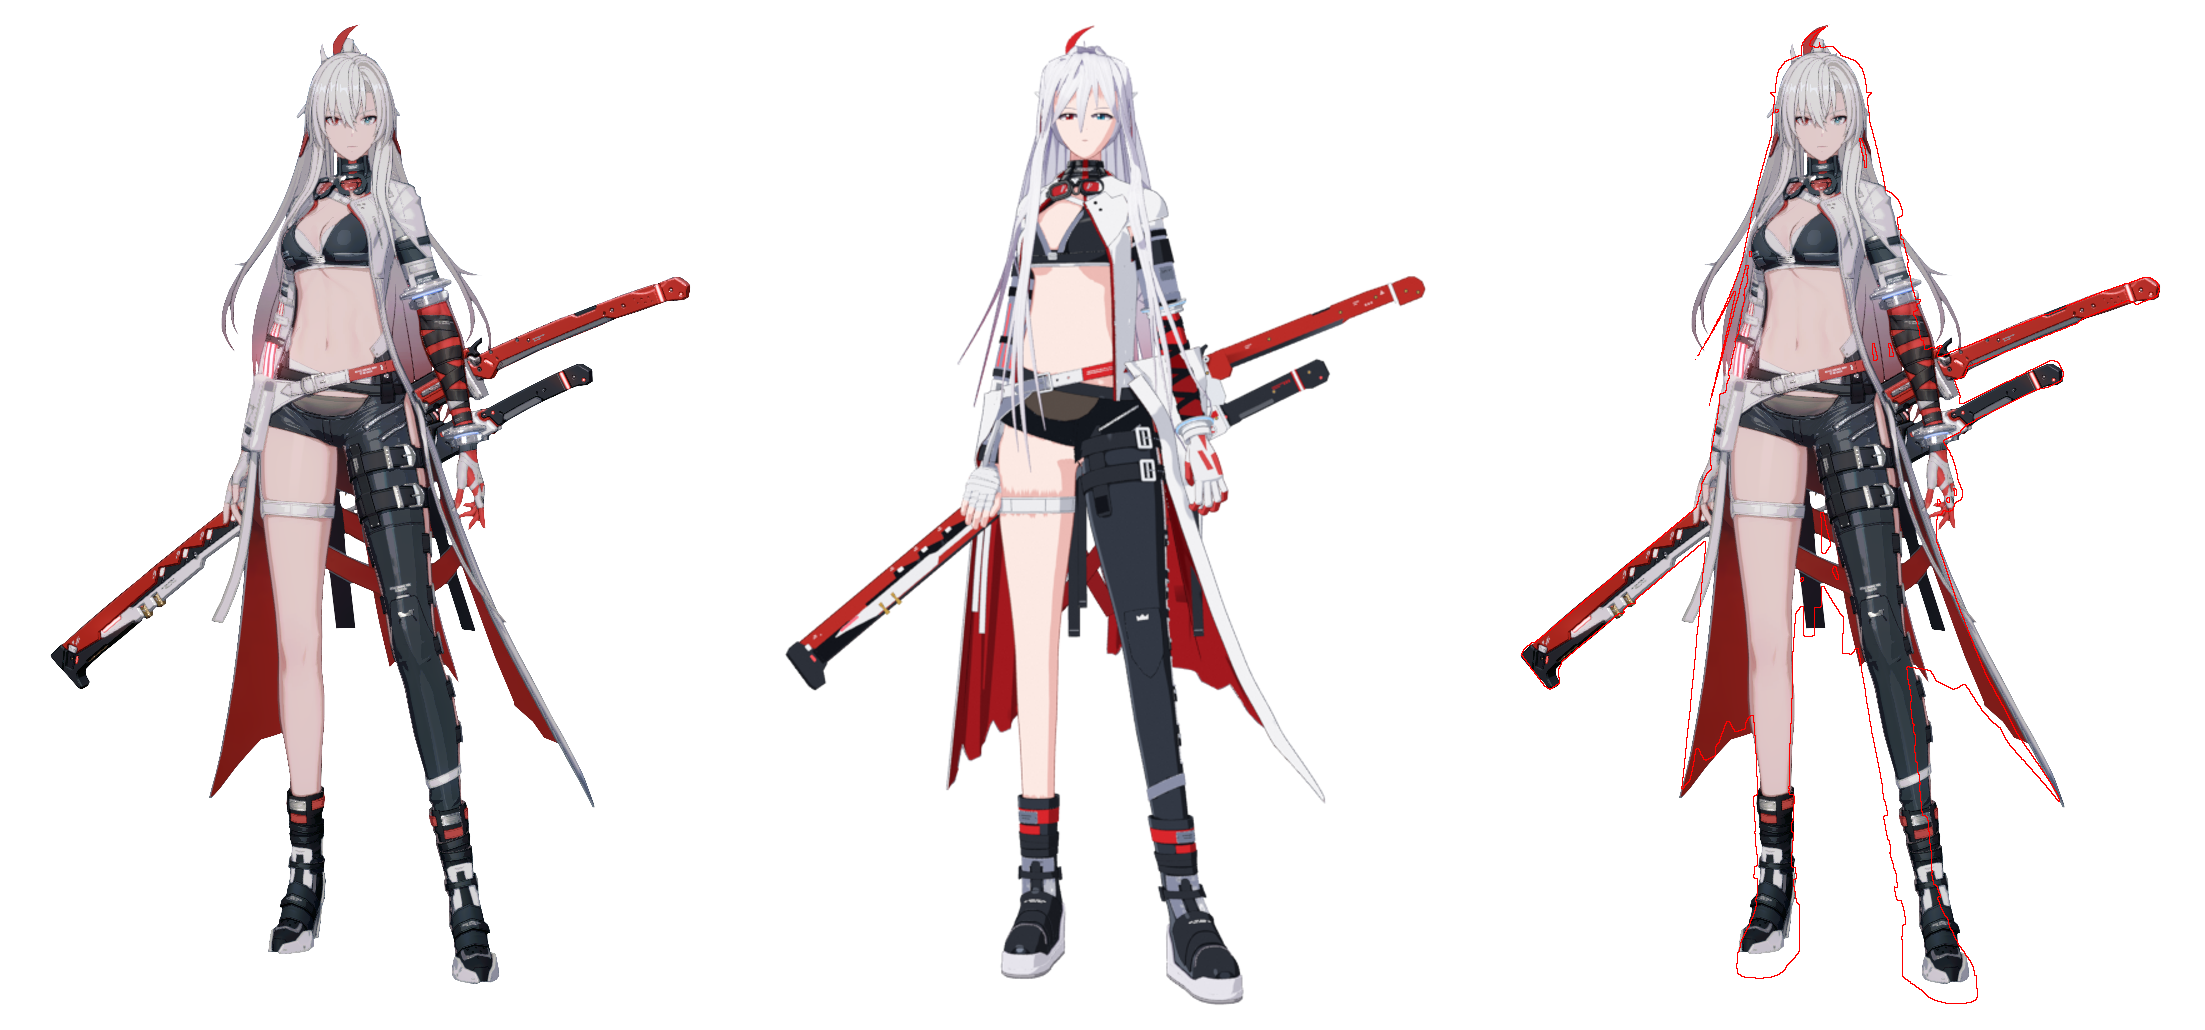
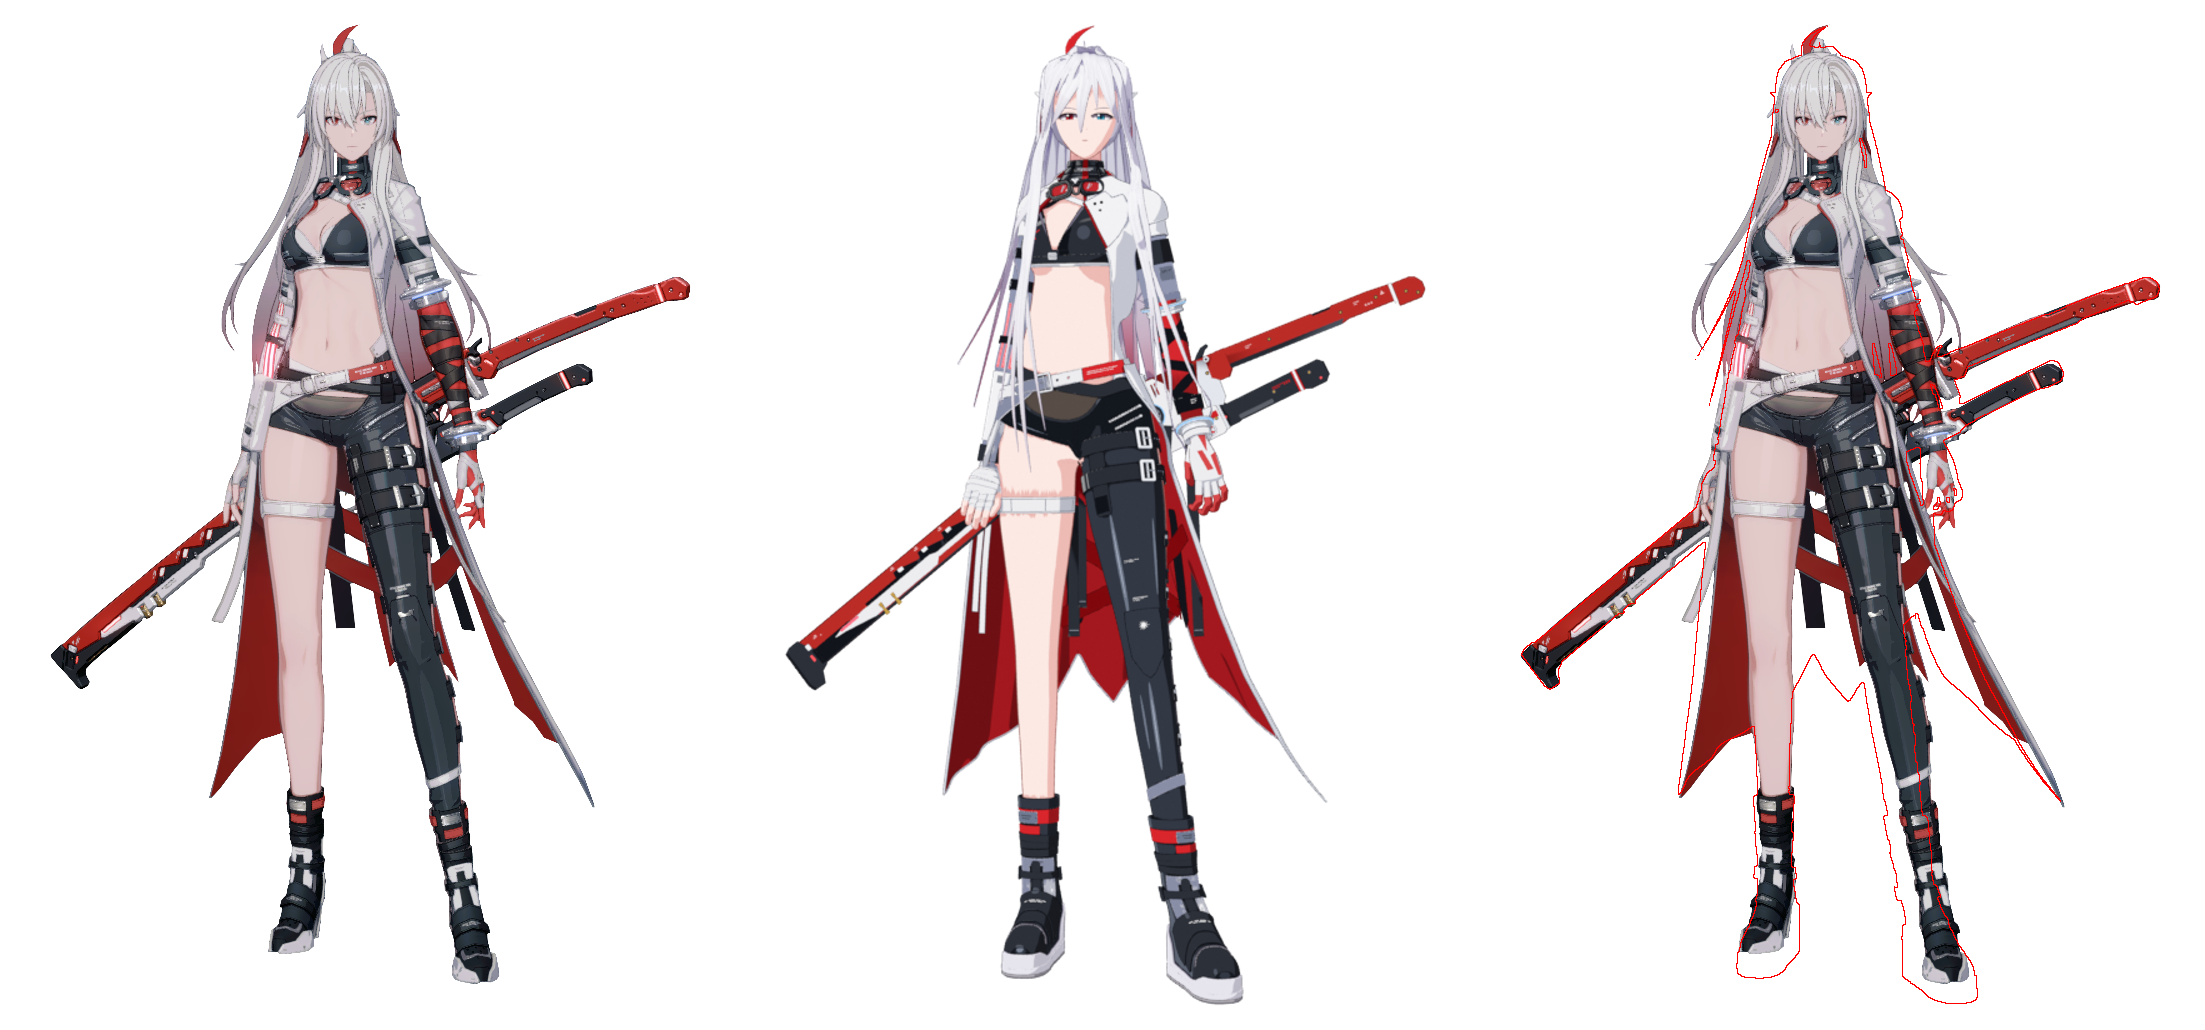
Update progress renders
Claude-Session: https://claude.ai/code/session_01TwugNdFuLjipgtbPMzWt85

diff --git a/modelo-personagem/src/coat.py b/modelo-personagem/src/coat.py
@@ -109,6 +109,7 @@ STRIP_Z = 1.030            # front panels fall to below the belt
 DRAPE_K = 0.06             # drape: recedes 0.6 mm per cm below the bust
 PULL_Z = (1.255, 1.105)    # drape -> body offset blend below the bust
 JACKET_H = 0.0023          # jacket field grid step
+BUST_PAD = 0.0030          # extra room over the bikini cups
 
 # front opening, traced on the reference (fold line of the lapels / front
 # edges), top to bottom.  Her right is on the viewer's left.
@@ -154,6 +155,40 @@ def neck_axis_r(P):
     return np.linalg.norm(q - t[..., None] * a, axis=-1)
 
 
+class _ArmTop:
+    """Upper-arm loft limited to its top (fades out below ARM_TOP_S)."""
+    def __init__(self, side):
+        self.arm = B.arm(side)
+        self.sh, el = J['shoulder_' + side], J['elbow_' + side]
+        self.ax = (el - self.sh) / np.linalg.norm(el - self.sh)
+
+    def bounds(self):
+        return self.sh - 0.10, self.sh + 0.10
+
+    def __call__(self, P):
+        t = (P - self.sh) @ self.ax
+        return self.arm(P) + 2.0 * np.maximum(t - ARM_TOP_S, 0.0)
+
+
+ARM_TOP_S = 0.080
+
+
+def sleeve_cut(side, s0):
+    """> 0 on the arm beyond the sleeve-top hem (s0 down the arm from the
+    shoulder joint) where the cloth is closer to the arm than to the torso."""
+    sh, el = J['shoulder_' + side], J['elbow_' + side]
+    ax = (el - sh) / np.linalg.norm(el - sh)
+    arm = B.arm(side)
+    tor = B.torso()
+    br = B.breasts()
+
+    def m(P):
+        t = (P - sh) @ ax
+        dt = np.minimum.reduce([tor(P)] + [b(P) for b in br])
+        return np.minimum(t - s0, dt - arm(P))
+    return m
+
+
 def arm_cut(side, s0, r_in=0.036, a_lat=115.0):
     """> 0 in the sleeve region of an arm: beyond the armhole plane (s0
     down the arm from the shoulder joint) on the outer side of the arm,
@@ -189,8 +224,10 @@ def jacket_grid():
     lo, hi = [-0.20, -0.19, 0.99], [0.23, 0.14, 1.47]
     g = Grid(lo, hi, JACKET_H)
     g.union(B.torso(), 0.0)
+    from sdf import Ellipsoid
     for b in B.breasts():
-        g.union(b, 0.02)
+        # inflated a little: the bikini cups must stay inside the jacket edge
+        g.union(Ellipsoid(b.c, b.r + BUST_PAD, b.R), 0.02)
     D = g.d
     D_body = D.copy()
     step = np.float32(DRAPE_K * g.h)
@@ -202,6 +239,10 @@ def jacket_grid():
     g.d = D * (1 - w) + D_body * w
     for p in B.shoulders():
         g.union(p, 0.03)
+    # top of the upper arms: the jacket flows into short set-in sleeve
+    # tops (bridging the back of the armpit) that cover the sleeves' tops
+    for side in ('R', 'L'):
+        g.union(_ArmTop(side), 0.022)
     from scipy.ndimage import gaussian_filter
     g.d = gaussian_filter(g.d, 1.2).astype(np.float32) - np.float32(COAT_OFF)
     _JACKET_GRID = g
@@ -279,7 +320,7 @@ def jacket_keep(P):
     k = deg2m(P)
     neck = 0.052 - neck_axis_r(P) - np.maximum(0.0, 1.37 - z) * 3.0
     opening = np.minimum(E['L'](z) - th, th - E['R'](z)) * k
-    arms = np.maximum(arm_cut('R', ARM_S0[0])(P), arm_cut('L', ARM_S0[1])(P))
+    arms = np.maximum(sleeve_cut('R', ARM_S0[0])(P), sleeve_cut('L', ARM_S0[1])(P))
     sl = np.maximum(E['L'](z) - th, th - E['L2'](z)) * k
     sr = np.maximum(E['R2'](z) - th, th - E['R'](z)) * k
     strip = np.minimum(sl, sr)
@@ -289,7 +330,7 @@ def jacket_keep(P):
 
 FACING_W = 0.0050          # visible red facing along the front edges (at the bust)
 FACING_Z = (1.195, 1.275)  # ... fading out below the bust
-ARM_S0 = (0.014, 0.016)    # armhole plane: distance down the arm from the shoulder
+ARM_S0 = (0.040, 0.028)    # sleeve-top hem: distance down the arm from the shoulder
 
 
 def jacket():
@@ -300,6 +341,8 @@ def jacket():
     v, f = largest_components(v, f, min_frac=0.02)
     v = relax(v, f, 6)
     f = orient_outward(v, f, jacket_centre)
+    n = vertex_normals(v, f)
+    v = tuck_strips(v, n, E)
     n = vertex_normals(v, f)
     # turned-out red facing along the front opening (only where the lapels
     # roll at the bust): its own object that tucks under the white edge
@@ -328,6 +371,27 @@ def jacket():
             'CoatFacing': cloth(vr, fr, ['lining'] * len(fr), COAT_T, outline_w=0.6),
             'CoatPiping': HS.hard_mesh(pipe + back_seams(), 'coat_trim', bevel=0.0,
                                        angle=70, outline_w=0.5)}
+
+
+TUCK_W = 0.040             # width of the tucked band along the strips' side edges
+TUCK_GAP = 0.0045          # cloth mid-surface to skin at the tucked edge
+
+
+def tuck_strips(v, n, E):
+    """The narrow front strips below the crop hem hang off the body; seen
+    from behind their red inside showed through the gap.  Curl their side
+    (back) edges in onto the body so the gap closes."""
+    z = v[:, 2]
+    th = torso_angle(v)
+    k = deg2m(v)
+    dR = (th - E['R2'](z)) * k
+    dL = (E['L2'](z) - th) * k
+    d = np.where(th < 0, dR, dL)
+    w = (1.0 - sstep(d, 0.0, TUCK_W)) * sstep(HEM_Z + 0.004 - z, 0.0, 0.030)
+    w = np.where((np.abs(th) < 110) & (d > -0.01), w, 0.0)
+    db = B.torso()(v)
+    push = w * np.maximum(db - TUCK_GAP, 0.0)
+    return v - n * push[:, None]
 
 
 def back_seams():
@@ -1095,16 +1159,35 @@ def sx_at(u, z):
 
 
 # X lattice inside the back panels: (u, z) end points, extra depth
-STRAPS_X = [((0.405, 0.800), (0.790, 0.665), 0.0),
-            ((0.455, 0.865), (0.585, 0.530), 0.0026)]
-STRAP_W = 0.045
+# X lattice inside the back panels, in back coordinates (sx, z) traced from
+# the reference between the legs (one band enters from behind her right
+# thigh at ref px ~(322, 530), the other rises to her left panel at ~(465,
+# 535); they cross behind her left leg): end points, extra depth
+STRAPS_X = [((-0.075, 0.805), (0.245, 0.625), 0.0026),
+            ((0.315, 0.790), (-0.040, 0.615), 0.0)]
+STRAP_W = 0.036
+# two black straps hanging behind the legs (ref px ~(337, 550-632) and
+# ~(450, 555-635)), ending in a slanted point
+STRAPS_K = [((-0.012, 0.835), (-0.004, 0.585)), ((0.262, 0.830), (0.252, 0.590))]
+STRAPK_W = 0.030
+
+
+def _band_mask(sx, z, a, b, w, point=0.0):
+    a, b = np.asarray(a, float), np.asarray(b, float)
+    L = np.linalg.norm(b - a)
+    d = (b - a) / L
+    qx, qz = sx - a[0], z - a[1]
+    along = qx * d[0] + qz * d[1]
+    perp = -qx * d[1] + qz * d[0]
+    return np.maximum.reduce([np.abs(perp) - w / 2, -along, along - L + point * (perp + w / 2)])
 
 
 def straps():
     """Broad crimson X lattice sewn inside the back panels (seen between
-    the legs from the front), and red tags on her right near the belt.
-    The bands are offset copies of the skirt surface, so they follow its
-    folds without poking through."""
+    the legs from the front), two black straps hanging behind the legs,
+    and red tags on her right near the belt.  The bands are offset copies
+    of the skirt surface, so they follow its folds without poking
+    through."""
     U, Vv, P, TH, R, SX = skirt_grid()
     V = P.reshape(-1, 3)
     F = grid_tris(SK_NU, SK_NV)
@@ -1112,25 +1195,26 @@ def straps():
                                                   Q[:, 2]], 1))
     n = vertex_normals(V, F)
     sx, z = SX.ravel(), V[:, 2]
-    items = []
-    for (ua, za), (ub, zb), deep in STRAPS_X:
-        a = np.array([sx_at(ua, za), za])
-        b = np.array([sx_at(ub, zb), zb])
-        L = np.linalg.norm(b - a)
-        d = (b - a) / L
-        qx, qz = sx - a[0], z - a[1]
-        along = qx * d[0] + qz * d[1]
-        perp = -qx * d[1] + qz * d[0]
-        m = np.maximum(np.abs(perp) - STRAP_W / 2, np.abs(along - L / 2) - L / 2)
-        Vc, Fc = clip_mesh(V - n * (SK_T / 2 + 0.0016 + deep), F, m)
-        items.append((Vc, Fc))
-    Vs, Fs, off = [], [], 0
-    for Vc, Fc in items:
-        Vs.append(Vc)
-        Fs.append(Fc + off)
-        off += len(Vc)
-    Vs, Fs = np.concatenate(Vs), np.concatenate(Fs)
-    out = {'CoatStraps': cloth(Vs, Fs, ['red'] * len(Fs), 0.0022, shell='red', outline_w=0.6)}
+
+    def pack(items):
+        Vs, Fs, off = [], [], 0
+        for Vc, Fc in items:
+            Vs.append(Vc)
+            Fs.append(Fc + off)
+            off += len(Vc)
+        return np.concatenate(Vs), np.concatenate(Fs)
+    red, blk = [], []
+    for a, b, deep in STRAPS_X:
+        m = _band_mask(sx, z, a, b, STRAP_W)
+        red.append(clip_mesh(V - n * (SK_T / 2 + 0.0042 + deep), F, m))
+    for a, b in STRAPS_K:
+        m = _band_mask(sx, z, a, b, STRAPK_W, point=0.9)
+        blk.append(clip_mesh(V - n * (SK_T / 2 + 0.0016), F, m))
+    Vs, Fs = pack(red)
+    out = {'CoatStraps': cloth(Vs, Fs, ['red'] * len(Fs), 0.0024, shell='red', outline_w=1.0)}
+    Vs, Fs = pack(blk)
+    out['CoatStrapsBlack'] = cloth(Vs, Fs, ['black'] * len(Fs), 0.0020, shell='black',
+                                   outline_w=0.8)
     tags = []
     for u, z, h in ((0.30, 0.995, 0.050), (0.335, 0.990, 0.040)):
         path = np.array([surf_at(u, zz, 0.0045) for zz in np.linspace(z, z - h, 6)])

diff --git a/modelo-personagem/src/outfit.py b/modelo-personagem/src/outfit.py
@@ -547,7 +547,7 @@ def leg_armor():
     r_th = 0.068
     da = HOLSTER_W / 2 * ch.R0 / r_th
     ac = HOLSTER_TH * ch.R0
-    strip = np.array([(ac - da, 0.010), (ac + da, 0.010), (ac + da, 0.168),
+    strip = np.array([(ac - da, 0.054), (ac + da, 0.054), (ac + da, 0.168),
                       (ac + da * 0.7, 0.176), (ac - da * 0.7, 0.176), (ac - da, 0.168)])
     Q, Ft = G.tri_region([strip], 0.004)
     hl = lambda a, s: holster_level(a / ch.R0, s)
@@ -711,6 +711,35 @@ def streak(p0, p1, w, n=14, bend=0.0):
     return np.concatenate([left, right[::-1][1:-1]])
 
 
+def sheer_panel(fn, level, t, masks, inset=0.0015):
+    """Sheer mesh panel: the scoop polygon (inset) lifted straight from the
+    front view (clean even triangulation, no marching-cubes slivers), cut by
+    the shorts masks (belt line, hems)."""
+    from meshutil import clip_mesh
+    poly = np.array(P2M(SCOOP), dtype=np.float64)
+    poly = G.resample(poly, 0.002)
+    # inward offset (polygon is counter-clockwise or not: test with area)
+    area = 0.5 * np.sum(poly[:, 0] * np.roll(poly[:, 1], -1) - np.roll(poly[:, 0], -1) * poly[:, 1])
+    tan = np.roll(poly, -1, axis=0) - np.roll(poly, 1, axis=0)
+    tan /= np.linalg.norm(tan, axis=1, keepdims=True)
+    nin = np.stack([-tan[:, 1], tan[:, 0]], axis=1) * np.sign(area)
+    poly = poly + nin * inset
+    Q, Ft = G.tri_region([poly], 0.0022)
+    fc = G.FrontChart(fn)
+    P, N = fc.lift(Q[:, 0], Q[:, 1], level)
+    Ft = np.asarray(Ft, dtype=np.int64)
+    for m in masks:
+        P, Ft = clip_mesh(P, Ft, m(P))
+    used = np.unique(Ft)
+    remap = -np.ones(len(P), dtype=np.int64)
+    remap[used] = np.arange(len(used))
+    P, Ft = P[used], remap[Ft]
+    P = G.project(fn, P, level, 3)
+    N = G.grad(fn, P)
+    Ft = G.orient(P, N, Ft)
+    return G.shell(P, N, Ft, t)
+
+
 def shorts():
     out = {}
     fn = hips_fn()
@@ -722,9 +751,7 @@ def shorts():
                                                 SHORTS_T)],
                             'clothing_gloss', bevel=0.0005, angle=50)
     # sheer mesh panel: slightly sunk and stopping short of the trim
-    out['ShortsSheer'] = G.solid([G.clip_multi_shell(fn, lev - 0.0005, V, F,
-                                                     body + [lambda P: sheer(P) + 0.0015],
-                                                     0.0011)],
+    out['ShortsSheer'] = G.solid([sheer_panel(fn, lev - 0.0005, 0.0011, body)],
                                  'sheer', bevel=0.0, outline_w=0.4)
     # thin black trim along the scoop edge (two smooth cuts -> clean rims)
     trim = body + [lambda P: sheer(P) - 0.0030, lambda P: -(sheer(P) + 0.0025),
@@ -1028,8 +1055,8 @@ CUP_L = [(351, 204), (358, 209), (366, 216), (374, 225), (380, 234), (385, 243),
          (337, 224), (344, 212)]
 # her right cup is turned away from the camera: it is given directly in torso
 # chart coordinates (angle in degrees, reference row) so it wraps the breast
-CUP_R_CH = [(-76, 207), (-84, 214), (-90, 224), (-95, 236), (-98, 248), (-99, 258),
-            (-70, 259), (-35, 259), (-41, 249), (-48, 238), (-56, 228), (-66, 217)]
+CUP_R_CH = [(-78.9, 208), (-84, 214), (-90, 224), (-95, 236), (-98, 248), (-99, 258),
+            (-70, 259), (-34.4, 259), (-41, 249), (-48, 238), (-56, 228), (-66, 217)]
 # inner edges (apex -> inner bottom) used for the grey lining strips
 CUP_L_INNER = [(351, 204), (344, 212), (337, 224), (330, 236), (324, 247), (321, 258)]
 CUP_R_INNER = [(-76, 207), (-66, 217), (-56, 228), (-48, 238), (-41, 249), (-35, 259)]
@@ -1063,10 +1090,10 @@ def chart_px(loop):
     return np.stack([np.radians(L[:, 0]) * 0.12, (PY0 - L[:, 1]) * S], axis=1)
 
 
-def chart_patch(fn, loop_az, level, t, h=0.0025):
+def chart_patch(fn, loop_az, level, t, h=0.0025, res=0.003):
     """Region given in torso chart parameters (a, z), lifted onto the hull."""
     ch = G.TorsoChart(fn, _TORSO, R0=0.12)
-    Q = G.resample(np.asarray(loop_az), 0.003)
+    Q = G.resample(np.asarray(loop_az), res)
     Q2, F = G.tri_region([Q], h)
     return G.lift_region(ch, Q2, F, level, t)
 
@@ -1105,18 +1132,37 @@ def lining_strip(edge, cup, frac=0.62, w=0.0045, start=0.07, inset=0.0004):
     return np.concatenate([a, b[::-1]])
 
 
+# the inner edge of her right cup is a straight line in the front view
+CUP_R_INNER_PX = ((305.0, 208.0), (319.0, 259.0))
+
+
+def cup_r_chart(fn):
+    """Right cup outline in chart params: the outer edge given in chart
+    coordinates (wraps the breast), the inner edge straight in front view."""
+    ch = G.TorsoChart(fn, _TORSO, R0=0.12)
+    (x0, y0), (x1, y1) = CUP_R_INNER_PX
+    t = np.linspace(0, 1, 15)
+    px = np.stack([x0 + (x1 - x0) * t, y0 + (y1 - y0) * t], axis=1)
+    inner = G.torso_params_for_front(ch, np.array(P2M(px)), CUP_LEV + CUP_T)
+    outer = chart_px(CUP_R_CH[:7])            # apex -> outer side -> bottom
+    loop = np.concatenate([outer, inner[::-1][:-1]])
+    return loop, inner
+
+
 def bikini():
     out = {}
     fn = top_fn()
-    cupR = chart_px(CUP_R_CH)
-    cups = [front_patch(fn, CUP_L, CUP_LEV, CUP_T), chart_patch(fn, cupR, CUP_LEV, CUP_T)]
+    cupR, innerR = cup_r_chart(fn)
+    cups = [front_patch(fn, CUP_L, CUP_LEV, CUP_T),
+            chart_patch(fn, cupR, CUP_LEV, CUP_T, h=0.0016, res=0.0008)]
     # halter straps: one straight sweep from each cup apex up to the collar
     apex = cupR[0]
     collar_r = chart_px([(-33, 188)])[0]
     d = collar_r - apex
     nv = np.array([-d[1], d[0]]) / np.linalg.norm(d) * 0.0055
-    strapR = np.array([apex - nv - d * 0.06, apex + nv - d * 0.06, collar_r + nv * 0.95,
-                       collar_r - nv * 0.95])
+    strapR = np.array([apex - nv * 0.45 - d * 0.10, apex + nv * 0.45 - d * 0.10,
+                       apex + nv * 0.8 + d * 0.12, collar_r + nv * 0.95, collar_r - nv * 0.95,
+                       apex - nv * 0.8 + d * 0.12])
     straps = [front_patch(fn, [(348, 207), (355, 207), (362, 186), (356, 185)], CUP_LEV,
                           CUP_T, h=0.002),
               chart_patch(fn, strapR, CUP_LEV, CUP_T, h=0.002)]
@@ -1124,8 +1170,8 @@ def bikini():
     top = CUP_LEV + CUP_T
     lin = [front_patch_m(fn, lining_strip(P2M(CUP_L_INNER), P2M(CUP_L)), top + 0.0001,
                          0.0006, h=0.0012),
-           chart_patch(fn, lining_strip(chart_px(CUP_R_INNER), cupR), top + 0.0001, 0.0006,
-                       h=0.0012)]
+           front_patch_m(fn, lining_strip(P2M(CUP_R_INNER_PX), P2M([(292, 236)])),
+                         top + 0.0001, 0.0006, h=0.0012)]
     out['BikiniLining'] = G.solid(lin, 'clothing_lining', bevel=0.0, outline_w=0.3)
     # soft round highlight (painted, like the reference's grey disc)
     hl = [front_patch_m(fn, ellipse(np.array(P2M([(349, 236)])[0]), 0.0118, 0.0132, 28),
@@ -1151,13 +1197,13 @@ def bikini():
                                 bevel=0.0004, outline_w=0.6)
     # painted red X on the upper centre of her right cup: two straight strokes
     # (~2.5 cm long, 3-4 mm wide) crossing at their midpoints
-    c = chart_px([(-64, 236)])[0]
+    c = chart_px([(-55, 237)])[0]
     a = 0.0088
     xs = [stroke(c + (-a, a), c + (a, -a), 0.0040, 0.0030),
           stroke(c + (a, a), c + (-a, -a), 0.0036, 0.0028)]
     red = [chart_patch(fn, x, top + 0.00012 + 0.0001 * i, 0.0003, h=0.0012)
            for i, x in enumerate(xs)]
-    out['BikiniMarkX'] = G.solid(red, 'red', bevel=0.0, outline=False)
+    out['BikiniMarkX'] = G.solid(red, 'clothing_red', bevel=0.0, outline=False)
     return out
 
 
